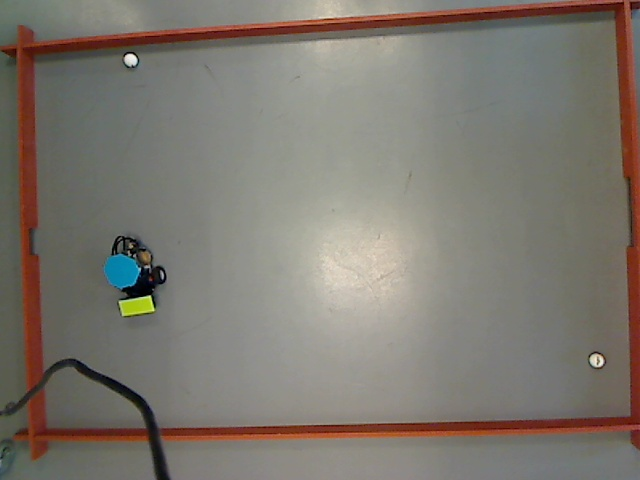
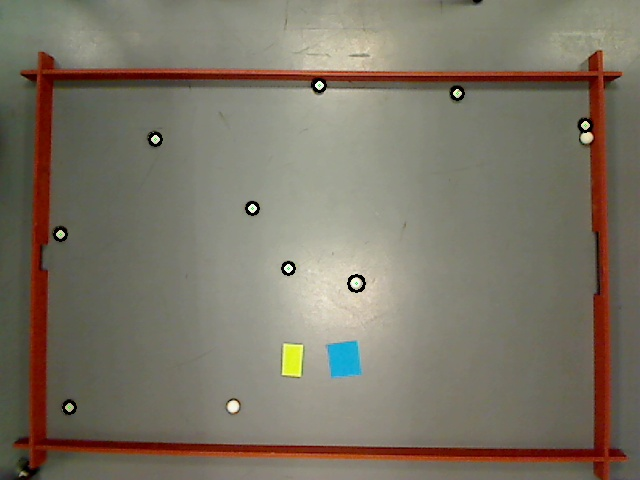
TONS OF UPGRADES

diff --git a/PCFiles/src/imgProcessing/ImgCap.java b/PCFiles/src/imgProcessing/ImgCap.java
@@ -6,8 +6,12 @@ import java.util.Map.Entry;
 
 import org.opencv.core.Core;
 import org.opencv.core.Mat;
+import org.opencv.core.Point;
+import org.opencv.core.Scalar;
+import org.opencv.core.Size;
 import org.opencv.highgui.Highgui;
 import org.opencv.highgui.VideoCapture;
+import org.opencv.imgproc.*;
 //import org.opencv
 
 
@@ -38,16 +42,22 @@ public class ImgCap {
 		int obstacleLowValue[] = {0, 0, 40};
 
 		//The picture
-		Mat image = new Mat();		
+		Mat image = new Mat();	
 		//picture from file
 //		String filePath = "C:\\cdio\\14.bmp";
 //		image = Highgui.imread(filePath,1);
-
+		
+		Mat circles = new Mat();
+		Mat grayImg = new Mat(image.rows(),image.cols(),image.type());
 		//picture from cam
 		VideoCapture webCam = new VideoCapture(1);
 		webCam.read(image);
-		
-		Highgui.imwrite("images\\scrCap.jpg",image);
+//		try {
+//			Thread.sleep(100);
+//		} catch (InterruptedException e) {
+//			// TODO Auto-generated catch block
+//			e.printStackTrace();
+//		}
 		
 		int rows = image.height();
 		int cols = image.width();
@@ -136,12 +146,11 @@ public class ImgCap {
 			}
 		}
 		//releasing webCame
-//		webCam.release();
+		webCam.release();
 		
 		//Calculating the coordinates for all balls
-		System.out.println(balls.size());
-		Graph ballGraph = new Graph(balls);
-		ArrayList<Point2D> ballSet = ballGraph.filterBalls();
+//		Graph ballGraph = new Graph(balls);
+//		ArrayList<Point2D> ballSet = ballGraph.filterBalls();
 
 		//obstacle outer coordinates in P2D
 		Point2D obstacleTopLeft = new Point2D.Double(obstacleMinX,obstacleMinY);
@@ -174,6 +183,35 @@ public class ImgCap {
 		double rightGoalCenter = (edgeBottomRight.getY()-edgeTopRight.getY())/2+edgeTopRight.getY();
 		Point2D rightGoalTop = new Point2D.Double(edgeBottomRight.getX(),rightGoalCenter-k);
 		Point2D rightGoalBottom = new Point2D.Double(edgeBottomRight.getX(),rightGoalCenter+k);
+		
+		//circles finding
+		ArrayList<Point2D> ballSet = new ArrayList<Point2D>();
+		Imgproc.cvtColor(image, grayImg, Imgproc.COLOR_BGRA2GRAY); 
+		Imgproc.GaussianBlur(grayImg, grayImg, new Size(3,3),0,0);
+		//http://docs.opencv.org/modules/imgproc/doc/feature_detection.html#houghcircles
+		Imgproc.HoughCircles(grayImg, circles, Imgproc.CV_HOUGH_GRADIENT, 1, 20, 10, 20, 5, 15);
+		int radius;
+        Point pt;
+        for (int x = 0; x < circles.cols(); x++) {
+        	double vCircle[] = circles.get(0,x);
+        	if (vCircle == null) {
+        		System.out.println("no circles found");
+	            break;
+	        }
+        	
+        	ballSet.add(new Point2D.Double(vCircle[0],vCircle[1]));
+        	System.out.println(vCircle[0] + " " + vCircle[1]);
+	        pt = new Point(Math.round(vCircle[0]), Math.round(vCircle[1]));
+	        radius = (int)Math.round(vCircle[2]);
+	
+	        // draw the found circle
+	        Core.circle(image, pt, radius, new Scalar(0,0,0), 2);
+	        Core.circle(image, pt, 1, new Scalar(0,255,0), 0);
+        }
+		
+		Highgui.imwrite("images\\scrCap.jpg",image);
+		
+		//prints for testing
 		System.out.println("Left goal:");
 		System.out.println(leftGoalTop);
 		System.out.println(leftGoalBottom);
@@ -181,9 +219,6 @@ public class ImgCap {
 		System.out.println("Right goal:");
 		System.out.println(rightGoalTop);
 		System.out.println(rightGoalBottom);
-		
-		
-		//prints for testing
 		System.out.println("printing balls "+ballSet.size());
 		for(int i=0;i<ballSet.size();i++){
 			System.out.println(ballSet.get(i));
@@ -192,6 +227,8 @@ public class ImgCap {
 		System.out.println("RobotBack, X: "+robotB.getX()+" Y:"+robotB.getY());
 		System.out.println("obstacle: top left:"+obstacleTopLeft+" bottom Right: "+obstacleBottomRight);
 		System.out.println("top left: " + edgeTopLeft + " top right: " + edgeTopRight + "bottom left: " + edgeBottomLeft + "bottom right: " + edgeBottomRight);
+		
+		
 		
 		//return an info object
 //		return null;
